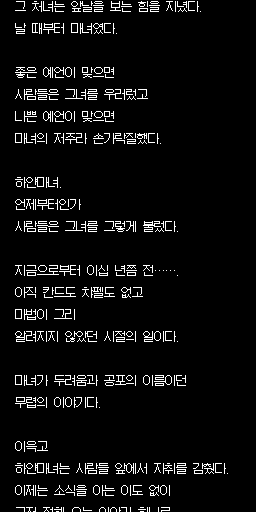
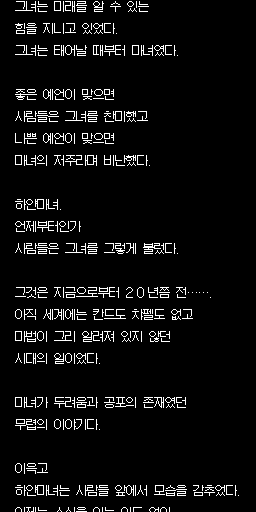
fix(ps1-ed3+4): 내레이션 문안을 유저 판으로 (정발 오프닝 참고)
유저가 정발 오프닝을 참고해 전면 손질했다. **뜻이 갈리는 자리는 그대로 두고 틀린 것만**
고쳤다 — 띄어쓰기(`여러가지`→`여러 가지`) · 빠진 마침표(`하얀마녀.`) · 빠진 낱말
(`20년쯤` → `20년쯤 **전**`, 원문 `昔`) · 말줄임표(`...` → `……`).
엔딩도 같은 낱말로 맞췄다(소녀 · 파도 · 불리던).

🔴 **게이트가 넘치는 줄 둘을 잡았다** — 「눈 내리는 밤, 달이 밝은 밤, 바람 부는 밤,」
(246px + 왼쪽 15 > 256) · 「그녀는 미래를 알 수 있는 힘을 지니고 있었다.」(251px).
두 줄로 접었다(판 높이 738/784 · 694/784).
💡 문안을 갈 때마다 자동으로 걸린다 — 이게 없으면 글자가 **조용히 잘려 나간다.**

되읽기 검산 — 19장 전부 통과(어긋난 것 0). 바뀐 섹터 310 → 315.

Claude-Session: https://claude.ai/code/session_01EgUCXD2enNo5ZN1tEqJ2Ai

diff --git a/games/ps1-ed3+4/tools/narration.py b/games/ps1-ed3+4/tools/narration.py
@@ -164,7 +164,7 @@ def main():
             bad += 1
             print(f"  🔴 {note}")
             for ln, wid in over:
-                print(f"       칸을 넘는다({wid}>{g['w']}): {ln}")
+                print(f"       칸을 넘는다({wid}px + 왼쪽 {g.get('left', 0)} > {g['w']}): {ln}")
             if used > room:
                 print(f"       줄이 판을 넘는다: {used} > {room}")
             continue
